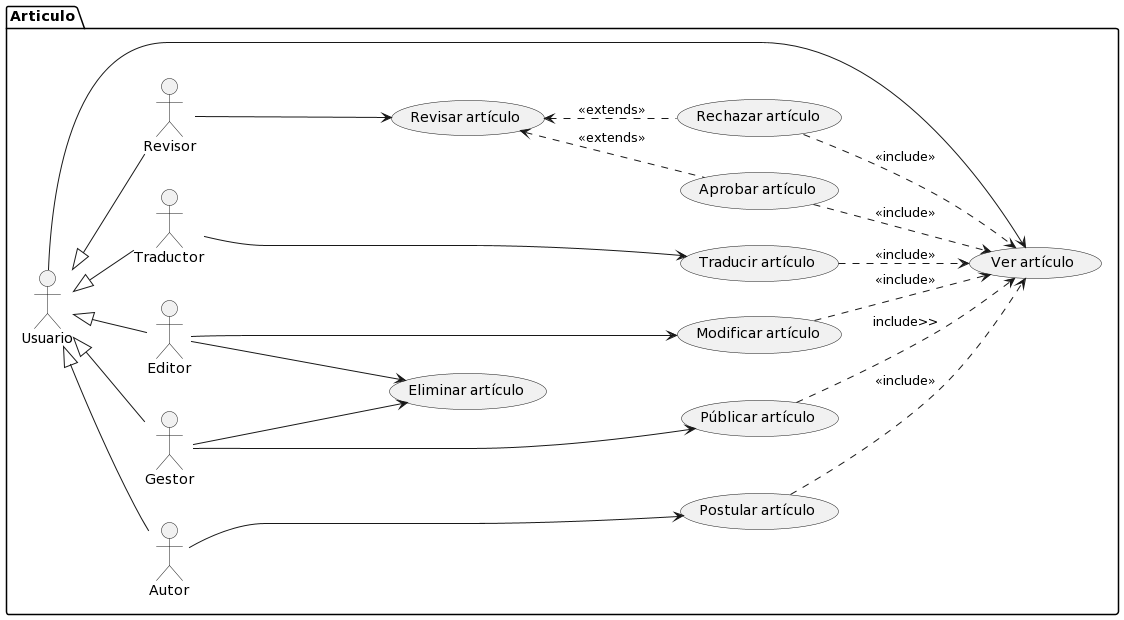
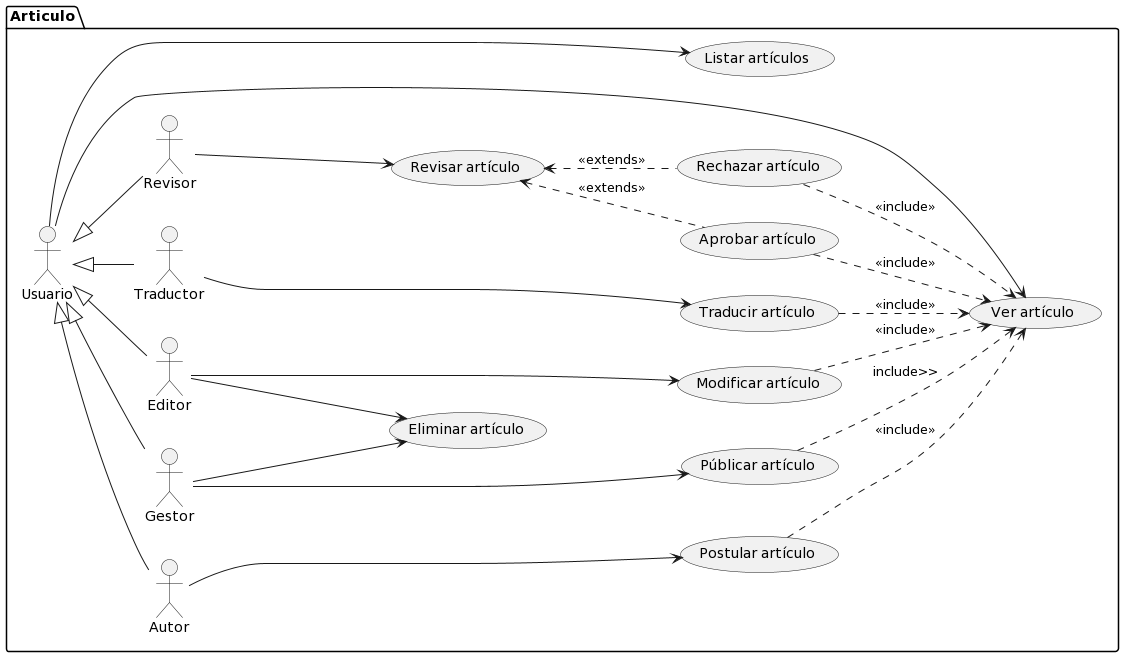
Actualizado detalles de casos de uso y diagrama de contexto

diff --git a/000-entregas/Grupo4/ProyectoEditorial/CasosDeUso/readme.md b/000-entregas/Grupo4/ProyectoEditorial/CasosDeUso/readme.md
@@ -2,7 +2,7 @@
 
 ## Encontrar actores y casos de uso 
 
-Se han identificado 6 actores y 24 casos de uso y se han clasificado en casos de uso relacionados con Sesión, Revista, Artículo, Volumen, Número.
+Se han identificado 6 actores y 25 casos de uso y se han clasificado en casos de uso relacionados con Sesión, Revista, Artículo, Volumen, Número.
 
 
 ### Actores
@@ -29,11 +29,12 @@ Se han identificado 6 actores y 24 casos de uso y se han clasificado en casos de
 | Iniciar sesión    | Finalizar sesión   | Postular artículo |
 | Publicar artículo | Modificar artículo | Eliminar artículo |
 | Aprobar artículo  | Rechazar artículo  | Revisar artículo  |
-| Traducir artículo | Ver artículo       | Modificar Volumen |
-| Eliminar Volumen  | Crear Volumen      | Listar Números    |
+| Traducir artículo | Ver artículo       | Listar Articulos  |
+| Eliminar Volumen  | Crear Volumen      | Modificar Volumen |
 | Modificar número  | Eliminar número    | Publicar número   |
-| Crear número      | Ver Numero         | Ver Revista       |
+| Crear número      | Ver Numero         | Listar Numeros    |
 | Eliminar Revista  | Modificar Revista  | Crear Revista     |
+| Ver Revista       |                    |                   |
 
 </div>
 
@@ -120,6 +121,15 @@ Se han identificado 6 actores y 24 casos de uso y se han clasificado en casos de
   ![](DetallarCasosDeUso/images/VerArticulo.png)
   <br/>
   [Código](DetallarCasosDeUso/VerArticulo.puml) 
+
+  </details>
+
+  <details>
+    <summary>Listar Artículos</summary>
+    
+  ![](DetallarCasosDeUso/images/ListarArticulos.png)
+  <br/>
+  [Código](DetallarCasosDeUso/ListarArticulos.puml) 
 
   </details>
 
